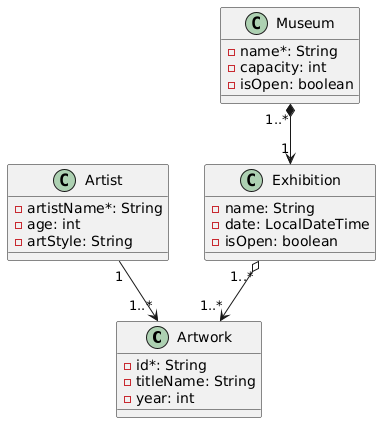
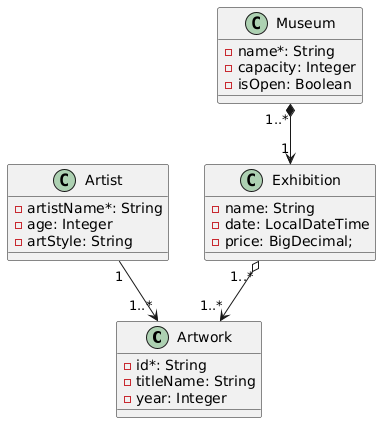
replaced primitive types with their Wrapper classes #817

diff --git a/src/main/java/es/upm/miw/apaw_practice/domain/models/art_museum/Museum.java b/src/main/java/es/upm/miw/apaw_practice/domain/models/art_museum/Museum.java
@@ -2,15 +2,15 @@ package es.upm.miw.apaw_practice.domain.models.art_museum;
 
 public class Museum {
     private String name;
-    private int capacity;
-    private boolean isOpen;
+    private Integer capacity;
+    private Boolean isOpen;
     private Exhibition exhibition;
 
     public Museum() {
         //empty for framework
     }
 
-    public Museum(String name, int capacity, boolean isOpen, Exhibition exhibition) {
+    public Museum(String name, Integer capacity, Boolean isOpen, Exhibition exhibition) {
         this.name = name;
         this.capacity = capacity;
         this.isOpen = isOpen;
@@ -25,19 +25,19 @@ public class Museum {
         this.name = name;
     }
 
-    public int getCapacity() {
+    public Integer getCapacity() {
         return capacity;
     }
 
-    public void setCapacity(int capacity) {
+    public void setCapacity(Integer capacity) {
         this.capacity = capacity;
     }
 
-    public boolean isOpen() {
+    public Boolean getOpen() {
         return isOpen;
     }
 
-    public void setOpen(boolean open) {
+    public void setOpen(Boolean open) {
         isOpen = open;
     }
 

diff --git a/src/main/java/es/upm/miw/apaw_practice/domain/models/art_museum/Artist.java b/src/main/java/es/upm/miw/apaw_practice/domain/models/art_museum/Artist.java
@@ -4,7 +4,7 @@ import java.util.List;
 
 public class Artist {
     private String artistName;
-    private int age;
+    private Integer age;
     private String artStyle;
     private List<Artwork> artworks;
 
@@ -12,7 +12,7 @@ public class Artist {
         //empty for framework
     }
 
-    public Artist(String artistName, int age, String artStyle, List<Artwork> artworks) {
+    public Artist(String artistName, Integer age, String artStyle, List<Artwork> artworks) {
         this.artistName = artistName;
         this.age = age;
         this.artStyle = artStyle;
@@ -27,11 +27,11 @@ public class Artist {
         this.artistName = artistName;
     }
 
-    public int getAge() {
+    public Integer getAge() {
         return age;
     }
 
-    public void setAge(int age) {
+    public void setAge(Integer age) {
         this.age = age;
     }
 

diff --git a/src/main/java/es/upm/miw/apaw_practice/domain/models/art_museum/Artwork.java b/src/main/java/es/upm/miw/apaw_practice/domain/models/art_museum/Artwork.java
@@ -3,13 +3,13 @@ package es.upm.miw.apaw_practice.domain.models.art_museum;
 public class Artwork {
     private String id;
     private String titleName;
-    private int year;
+    private Integer year;
 
     public Artwork() {
         // empty for framework
     }
 
-    public Artwork(String id, String titleName, int year) {
+    public Artwork(String id, String titleName, Integer year) {
         this.id = id;
         this.titleName = titleName;
         this.year = year;
@@ -31,11 +31,11 @@ public class Artwork {
         this.titleName = titleName;
     }
 
-    public int getYear() {
+    public Integer getYear() {
         return year;
     }
 
-    public void setYear(int year) {
+    public void setYear(Integer year) {
         this.year = year;
     }
 
